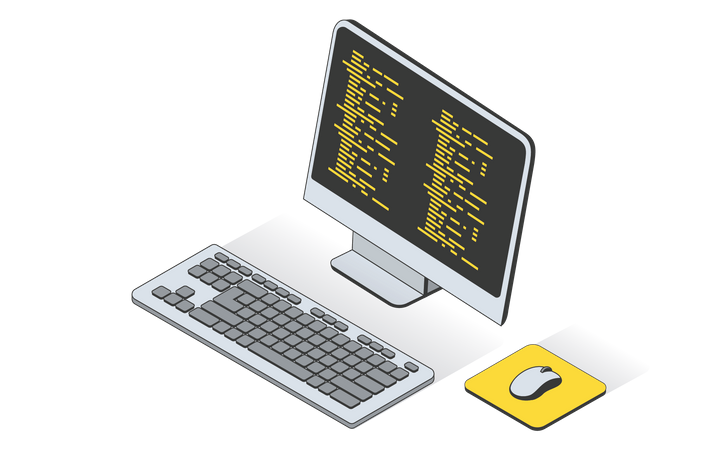
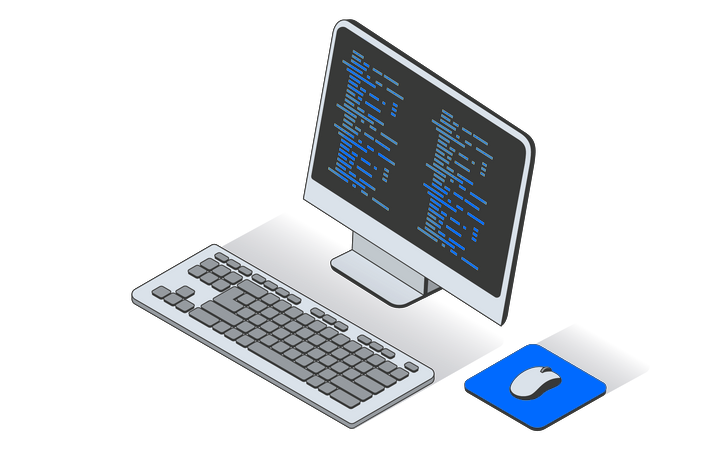
Atualização

diff --git a/README.md b/README.md
@@ -1,4 +1,4 @@
-<img src="images/exp_inovadora_edux.png" min-width="400px" max-width="450px" width="400px" align="right" alt="Computador">
+<img src="images/computer-5425039-4558296.png" min-width="400px" max-width="450px" width="400px" align="right" alt="Computador">
 <h1>Hi, Bruno here! <img src="https://raw.githubusercontent.com/kaueMarques/kaueMarques/master/hi.gif" width="30"></h1>
 
 ### Welcome to my profile of GitHub
@@ -31,11 +31,11 @@
 <p align="left">
  
  <a href="https://www.linkedin.com/in/bruno-serpa-491108281/" alt="Linkedin">
-  <img width="140px" src="https://img.shields.io/badge/-Linkedin-rgb(25, 27, 30)?style=for-the-badge&logo=Linkedin&logoColor=rgb(64, 224, 208)&link=https://www.linkedin.com/in/evander-inacio"/> 
+  <img width="140px" src="https://img.shields.io/badge/-Linkedin-rgb(25, 27, 30)?style=for-the-badge&logo=Linkedin&logoColor=rgb(0, 106, 255)&link=https://www.linkedin.com/in/evander-inacio"/> 
  </a>
 
  <a href="mailto:bruno30.serpa@gmail.com" target="_blank" rel="external" alt="Gmail">
-  <img width="113px" src="https://img.shields.io/badge/-Gmail-rgb(25, 27, 30)?style=for-the-badge&logo=Gmail&logoColor=rgb(64, 224, 208)&link=mailto:evander.20116@gmail.com"/> 
+  <img width="113px" src="https://img.shields.io/badge/-Gmail-rgb(25, 27, 30)?style=for-the-badge&logo=Gmail&logoColor=rgb(0, 106, 255)&link=mailto:evander.20116@gmail.com"/> 
  </a>
 
  </p>
